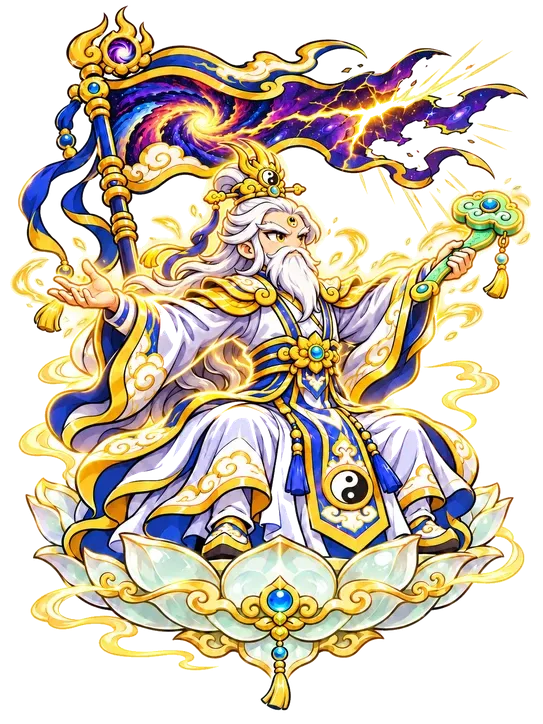
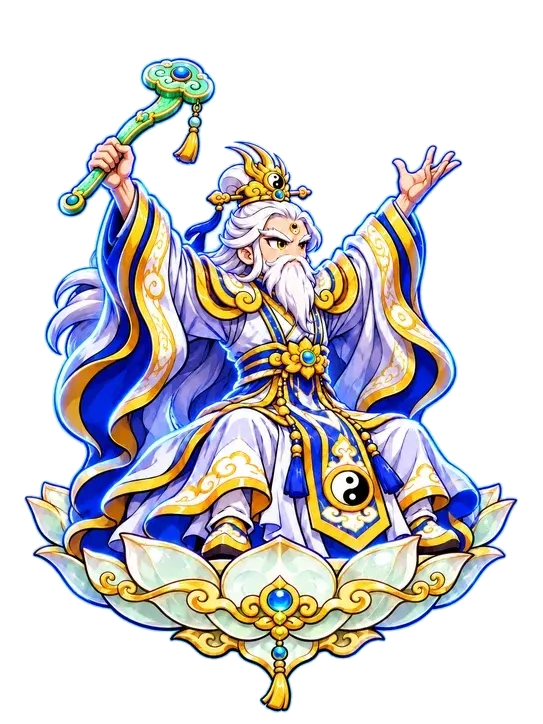
4 UR moi (Nu Oa, Tiep Dan, Chuan De, Nhu Lai) + Nguyen Thuy tach lop; Hong Quan: Hong Mong Khai Thien; va toc rau Hong Quan, Thai Thuong; Thai Cuc Do bot choi; bo vong aura UR

diff --git a/js/main.js b/js/main.js
@@ -123,7 +123,7 @@ function drawEnemyPose(u, alpha) {
   ctx.filter = 'none'; ctx.restore(); return true;
 }
 const POSE_NAMES = ['windup', 'strike', 'skill', 'ult', 'idle1', 'idle2', 'hit'];
-const POSE_IDS = ['hongquan','nguyenthuy','ngochoang','dilac','quangthanh','kimlinh','chanvu','vuongmau','phohien','daibang','ngocdinh','hoangbao','bachnhan','hattu','moctra','nganggiac','kimmaohong','loicong','ngoctho','linhcam','maonhat','giaochu','khongtuyen','nhiendang','thaisu','hoangmi','vanthu','quynhtieu','hoangthienhoa','viho','thachco','bodetosu','tranguyentu','hoangphiho','dienmau','thanhnguutinh','longvuong','dangthienngoc','kimtra','hachhung','thodia','ngokhong','batgioi','nata','ngumavuong','honghainhi','quanam','datky','duongtang','duongtien','khuongtanha','vantieu','trieucongminh','thailaoquan','satang','thietphien','litinh','hangnga','bachcot','loichantu','thohanhton','thaiatchannhan','thancongbao','longnu','kimgiac','tieubachlong','thaibachkimtinh','culinhthan','hoangphongquai'];   // tướng đã có tư thế chính (thêm id khi đã vẽ xong game/art/poses/<id>/)
+const POSE_IDS = ['nuoa','tiepdan','chuande','nhulai','hongquan','nguyenthuy','ngochoang','dilac','quangthanh','kimlinh','chanvu','vuongmau','phohien','daibang','ngocdinh','hoangbao','bachnhan','hattu','moctra','nganggiac','kimmaohong','loicong','ngoctho','linhcam','maonhat','giaochu','khongtuyen','nhiendang','thaisu','hoangmi','vanthu','quynhtieu','hoangthienhoa','viho','thachco','bodetosu','tranguyentu','hoangphiho','dienmau','thanhnguutinh','longvuong','dangthienngoc','kimtra','hachhung','thodia','ngokhong','batgioi','nata','ngumavuong','honghainhi','quanam','datky','duongtang','duongtien','khuongtanha','vantieu','trieucongminh','thailaoquan','satang','thietphien','litinh','hangnga','bachcot','loichantu','thohanhton','thaiatchannhan','thancongbao','longnu','kimgiac','tieubachlong','thaibachkimtinh','culinhthan','hoangphongquai'];   // tướng đã có tư thế chính (thêm id khi đã vẽ xong game/art/poses/<id>/)
 const _heroLoaded = {};   // id → Promise: rig xương + tư thế của tướng, chỉ nạp khi tướng ra trận (tiết kiệm ~30 MB lúc khởi động)
 function ensureHeroAssets(ids) {
   try { applySkins(); } catch (e) {}
@@ -1900,7 +1900,7 @@ function poseFor(u) {
 //   Hiển thị = 108px × look.size × SIZE_K × (UR 1,08). SIZE_K bù phần thú cưỡi/toà để NGƯỜI luôn cùng cỡ.
 //   SIZE_K[id] = tổng chiều cao khối / chiều cao người (chỉ tướng cưỡi thú, ngồi toà, áo dài lơ lửng, dáng khom). Kiểm bằng tools/size_sheet.py:
 //   đỉnh đầu NGƯỜI phải chạm vạch đỏ. Vẽ lại tướng có thú cưỡi -> chạy lại size_sheet.py và chỉnh số của tướng đó.
-const SIZE_K = { giaochu: 1.04, thailaoquan: 1.06, phohien: 1.32, vanthu: 1.28, hoangphiho: 1.16, nguyenthuy: 1.2, hongquan: 1.12, kimgiac: 1.1, thaisu: 1.12 };
+const SIZE_K = { nuoa: 1.05, tiepdan: 1.08, chuande: 1.05, nhulai: 1.02, giaochu: 1.04, thailaoquan: 1.06, phohien: 1.32, vanthu: 1.28, hoangphiho: 1.16, nguyenthuy: 0.98, hongquan: 1.0, kimgiac: 1.1, thaisu: 1.12 };
 const heroK = id => (SIZE_K[id] || 1) * (isUR(id) ? 1.08 : 1);
 const HFIX = new Proxy({}, { get: (_, id) => typeof id === 'string' && HEROES[id] ? heroK(id) : undefined });   // tương thích chỗ cũ dùng HFIX[id]
 const _bright = new WeakMap();
@@ -1937,17 +1937,38 @@ const UR_LAYERS = {
   thailaoquan: { halo: { img: 'tl_taiji', qi: 'tl_qi', x: -0.1, y: 0.86, size: 0.8, spd: 0.12 },
     float: { img: 'tl_lo', smoke: 'tl_smoke', x: 0.42, y: 0.74, size: 0.17 },
     orbit: { img: 'tl_kimcang', n: 1, rx: 0.5, ry: 0.1, y: 0.42, size: 0.13, spd: 0.7 } },
+  // lớp chung: items [{ side: -1 sau | 1 trước, img (ultc) | sheet (sigfx, chạy vòng), x, y (theo chiều cao thân, y đo từ chân lên), w (rộng), spd (xoay vòng/giây), sway (lắc), bob, add, a, ay, spdSheet }]
+  nuoa: { ground: { sheet: 'nuoa_cloud', w: 1.2, y: 0.0, spd: 0.15, a: 0.9 },
+    items: [{ side: -1, img: 'nuoa_rainbow', y: 0.66, w: 0.95, spd: 0.04, a: 0.9, glow: '#ffc0f0' }],
+    orbit: { imgs: ['nuoa_st0', 'nuoa_st1', 'nuoa_st2', 'nuoa_st3', 'nuoa_st4'], n: 5, rx: 0.55, ry: 0.11, y: 0.5, size: 0.1, spd: 0.5, glow: 'rgba(255,220,255,0.9)' },
+    float: { img: 'nuoa_ball', x: 0.42, y: 0.62, size: 0.16 } },
+  tiepdan: { ground: { sheet: 'td_ground', w: 1.25, y: 0.0, spd: 0.25, a: 0.9 },
+    items: [{ side: -1, img: 'td_rays', y: 0.72, w: 0.9, spd: 0.02, a: 0.55 }, { side: 1, sheet: 'td_petals', y: 0.55, w: 0.95, spdSheet: 0.35, add: 1, a: 0.8 }] },
+  chuande: { items: [{ side: -1, img: 'cd_tail', y: 0.62, w: 1.15, sway: 0.04, a: 1, glow: '#9fffc0' }, { side: -1, img: 'cd_arms', y: 0.78, w: 0.9, sway: 0.06, a: 0.95 },
+      { side: 1, sheet: 'cd_feathers', y: 0.5, w: 0.9, spdSheet: 0.4, add: 1, a: 0.75 }],
+    float: { img: 'cd_tree', x: -0.42, y: 0.62, size: 0.2 } },
+  nhulai: { ground: { sheet: 'nl_lotus', w: 1.0, y: 0.0, spd: 0.15, a: 0.9 },
+    items: [{ side: -1, img: 'nl_halo', y: 0.68, w: 1.0, spd: 0.015, a: 0.95, glow: '#ffd76a' }, { side: -1, img: 'nl_ring', y: 0.68, w: 1.12, spd: -0.06, add: 1, a: 0.9 },
+      { side: 1, sheet: 'nl_glyphs', x: 0.2, y: 0.6, w: 0.5, spdSheet: 0.5, add: 1, a: 0.8 }] },
+  nguyenthuy: { items: [{ side: -1, img: 'nt_rays', y: 0.7, w: 0.95, spd: 0.02, a: 0.5 }, { side: -1, sheet: 'nt_banner', x: -0.42, y: 0.55, w: 0.75, spdSheet: 0.6, a: 1 }] },
   hongquan: { ground: { sheet: 'hq_galaxy', w: 1.3, y: 0.0, spd: 0.18, a: 0.95 }, orbit: { img: 'hq_tablet', n: 3, rx: 0.62, ry: 0.12, y: 0.62, size: 0.34, spd: 0.45 } },
 };
 function urLayers(g, L, x, y, hb, alpha, side, pose, u) {   // side -1: lớp sau thân; 1: lớp trước thân; pose: dáng đang vẽ
   const T = performance.now() / 1000, c0 = ctx; ctx = g;   // sfxDraw/sigImg vẽ lên ctx toàn cục -> mượn tạm
   try {
+    for (const it of L.items || []) { if ((it.side || -1) !== side) continue;   // lớp chung (hào quang, cờ, cánh tay, lông vũ...)
+      const ult = pose === 'ult' || pose === 'skill', cx = x + hb * (it.x || 0), cy = y - hb * it.y + (it.bob ? Math.sin(T * 1.6) * hb * it.bob : 0), S = hb * it.w * (ult && it.img ? 1.05 : 1);
+      if (it.glow) { g.save(); g.globalCompositeOperation = 'lighter'; g.globalAlpha = alpha * (ult ? 0.6 : 0.35); const gr = g.createRadialGradient(cx, cy, S * 0.1, cx, cy, S * 0.6); gr.addColorStop(0, it.glow); gr.addColorStop(1, 'rgba(0,0,0,0)'); g.fillStyle = gr; g.fillRect(cx - S, cy - S, S * 2, S * 2); g.restore(); }
+      if (it.sheet) { sfxImg(it.sheet); sfxDraw(it.sheet, T * (it.spdSheet || 0.3), cx, cy, S, { loop: 1, add: it.add, a: alpha * (it.a || 1), ay: it.ay }); continue; }
+      const im = ucImg(it.img); if (!im) continue; const w = S, h = S * im.height / im.width;
+      g.save(); g.translate(cx, cy); g.rotate((it.spd ? T * it.spd * TAU * (ult ? 2 : 1) : 0) + (it.sway ? Math.sin(T * 1.2) * it.sway : 0));
+      if (it.add) g.globalCompositeOperation = 'lighter'; g.globalAlpha = alpha * (it.a || 1); g.drawImage(im, -w / 2, -h / 2, w, h); g.restore(); }
     const HL = L.halo;   // vầng hào quang xoay sau lưng (Thái Thượng: Thái Cực Đồ) + khí âm dương bay ra vào
     if (HL && side < 0) { const im = ucImg(HL.img); if (im) { const S = hb * HL.size, cx = x + hb * HL.x, cy = y - hb * HL.y, ult = pose === 'ult' || pose === 'skill';
-      g.save(); g.globalCompositeOperation = 'lighter'; g.globalAlpha = alpha * (ult ? 0.7 : 0.4);
-      const gr = g.createRadialGradient(cx, cy, S * 0.2, cx, cy, S * 0.75); gr.addColorStop(0, 'rgba(160,255,200,0.6)'); gr.addColorStop(1, 'rgba(0,0,0,0)'); g.fillStyle = gr; g.fillRect(cx - S, cy - S, S * 2, S * 2); g.restore();
-      g.save(); g.translate(cx, cy); g.rotate(T * HL.spd * (ult ? 3 : 1)); g.globalAlpha = alpha * 0.92; g.drawImage(im, -S / 2, -S / 2, S, S); g.restore();
-      if (HL.qi) { sfxImg(HL.qi); sfxDraw(HL.qi, T * 0.35, cx, cy, S * 1.35, { loop: 1, add: 1, a: alpha * (ult ? 1 : 0.75), rot: -T * 0.2 }); } } }
+      g.save(); g.globalCompositeOperation = 'lighter'; g.globalAlpha = alpha * (ult ? 0.35 : 0.15);
+      const gr = g.createRadialGradient(cx, cy, S * 0.2, cx, cy, S * 0.75); gr.addColorStop(0, 'rgba(160,255,200,0.5)'); gr.addColorStop(1, 'rgba(0,0,0,0)'); g.fillStyle = gr; g.fillRect(cx - S, cy - S, S * 2, S * 2); g.restore();
+      g.save(); g.translate(cx, cy); g.rotate(T * HL.spd * (ult ? 3 : 1)); g.globalAlpha = alpha; g.drawImage(im, -S / 2, -S / 2, S, S); g.restore();
+      if (HL.qi) { sfxImg(HL.qi); sfxDraw(HL.qi, T * 0.35, cx, cy, S * 1.35, { loop: 1, add: 1, a: alpha * (ult ? 0.7 : 0.45), rot: -T * 0.2 }); } } }
     const FL = L.float;   // pháp bảo lơ lửng cạnh vai (Thái Thượng: lò Bát Quái phun khói)
     if (FL && side > 0) { const im = ucImg(FL.img); if (im) { const S = hb * FL.size, fx = x + hb * FL.x, fy = y - hb * FL.y + Math.sin(T * 1.6) * hb * 0.015;
       if (FL.smoke) { sfxImg(FL.smoke); sfxDraw(FL.smoke, T * 0.8, fx, fy - S * 0.35, S * 1.3, { loop: 1, ay: 0.95, add: 1, a: alpha * 0.85 }); }
@@ -1964,11 +1985,12 @@ function urLayers(g, L, x, y, hb, alpha, side, pose, u) {   // side -1: lớp sa
         g.globalCompositeOperation = 'source-over'; g.globalAlpha = alpha; g.drawImage(im, -w / 2, -L2 * 0.92, w, L2); g.restore(); }
     }
     if (side < 0 && L.ground) { sfxImg(L.ground.sheet); sfxDraw(L.ground.sheet, T * L.ground.spd, x, y + hb * L.ground.y, hb * L.ground.w, { loop: 1, a: alpha * L.ground.a }); }
-    const O = L.orbit; if (O) { const im = ucImg(O.img); if (im) for (let i = 0; i < O.n; i++) {
+    const busy = u && u.side === 'h' && B && B.fx.some(f => f.k === 'sigx' && f.who === u.id && f.ult);   // tuyệt kỹ đang dùng chính pháp bảo bay -> ẩn vòng bay
+    const O = !busy && L.orbit; if (O) for (let i = 0; i < O.n; i++) { const im = ucImg(O.imgs ? O.imgs[i % O.imgs.length] : O.img); if (!im) continue; {
       const a = T * O.spd + i * TAU / O.n, front = Math.sin(a) > 0; if ((side > 0) !== front) continue;
       const ox = Math.cos(a) * hb * O.rx, oy = y - hb * O.y + Math.sin(a) * hb * O.ry + Math.sin(T * 2 + i) * hb * 0.02, d = 0.82 + 0.18 * Math.sin(a), S = hb * O.size * d;
       g.save(); g.globalAlpha = alpha * (front ? 1 : 0.55);
-      g.globalCompositeOperation = 'lighter'; g.globalAlpha *= 0.35; const gr = g.createRadialGradient(x + ox, oy, 0, x + ox, oy, S * 0.9); gr.addColorStop(0, 'rgba(255,220,140,0.9)'); gr.addColorStop(1, 'rgba(0,0,0,0)'); g.fillStyle = gr; g.fillRect(x + ox - S, oy - S, S * 2, S * 2);
+      g.globalCompositeOperation = 'lighter'; g.globalAlpha *= 0.35; const gr = g.createRadialGradient(x + ox, oy, 0, x + ox, oy, S * 0.9); gr.addColorStop(0, O.glow || 'rgba(255,220,140,0.9)'); gr.addColorStop(1, 'rgba(0,0,0,0)'); g.fillStyle = gr; g.fillRect(x + ox - S, oy - S, S * 2, S * 2);
       g.globalCompositeOperation = 'source-over'; g.globalAlpha = alpha * (front ? 1 : 0.55); g.drawImage(im, x + ox - S * 0.5 * im.width / im.height, oy - S / 2, S * im.width / im.height, S); g.restore(); } }
   } finally { ctx = c0; }
 }
@@ -3016,6 +3038,7 @@ const SSR_FX = {
 const SFI = {}; function sfImg(n) { let i = SFI[n]; if (!i) { i = SFI[n] = new Image(); i.src = 'art/ssrfx/' + n + '.webp'; } return i.complete && i.naturalWidth ? i : null; }
 function ssrFxOn(u) { return u && u.side === 'h' && SSR_FX[u.id] && !u.clone && S.gfx !== 'low' && (HEROES[u.id].rar === 'SSR' || ((S.owned[u.id] || {}).star || 0) >= 5); }   // SR có bộ VFX (Ngưu Ma) giữ khi thức tỉnh
 function drawSsrAura(u, h) {   // hào quang sau lưng: đứng yên đúng tâm thân, đập nhịp, sáng hơn khi đầy nộ
+  if (UR_LAYERS[u.id]) return;   // UR tách lớp đã có hào quang riêng sau đầu -> bỏ vòng lớn quanh người cho đỡ rối
   const im = sfImg('aura_' + u.id); if (!im) return; const full = u.mp >= 100 ? 1 : 0;
   const T = window.AURA_C0 && (AURA_C0[poseDir(u.id)] || AURA_C0[u.id]), tc = T && (T[u.pzN] || T.idle1); if (!tc) return;
   u.auC = u.auC || tc.slice(); u.auC[0] += (tc[0] - u.auC[0]) * 0.25; u.auC[1] += (tc[1] - u.auC[1]) * 0.25;   // trượt mượt theo dáng
@@ -4077,7 +4100,7 @@ const FAC_BG = { xien: 'khuongtanha', triet: 'giaochu', thien: 'duongtien', phat
 const HD_FIX = { giaochu: 0.7, thailaoquan: 0.74 };   // màn chi tiết: chừa chỗ cho quạt kiếm sau lưng
 function hdScale(id) {   // màn chi tiết: phóng theo chiều cao THÂN (tướng có kiếm bay / thú cưỡi không bị nhỏ), cùng số đo với trong trận
   const D = window.HPOSE && HPOSE[poseDir(id)]; if (!D) return 1;
-  return Math.max(0.75, Math.min(1.4, 1300 / D.H * (HFIX[id] || 1) * (HD_FIX[id] || 1))).toFixed(3);
+  return Math.max(0.75, Math.min(1.4, 1300 / D.H * (HFIX[id] || 1) * (HD_FIX[id] || (UR_LAYERS[id] ? 0.74 : 1)))).toFixed(3);
 }
 function hdSkill(id, k) { const h = HEROES[id], a = ATK_STYLE[id] || {};
   return k === 'atk' ? { n: a.name || 'Đánh thường', d: a.desc || '' } : k === 'passive' ? { n: h.passive.name, d: h.passive.desc } : k === 'cap' ? capSkill(id) : { n: h[k].name, d: h[k].desc }; }
@@ -4996,7 +5019,7 @@ loadArt().then(() => {
 // =====================================================================
 const SIG = {};
 // [cột, hàng, rộng ô, cao ô] — tools/make_sigfx.py in ra
-const SFX = /*SFX*/{"nmv_spikes":[3,2,256,256],"nmv_crack":[3,2,256,256],"nmv_roar":[3,2,256,256],"nmv_pillar":[4,2,192,256],"nt_ring":[3,2,256,256],"nt_spear":[3,2,256,256],"nt_wheel":[3,2,256,256],"nt_burst":[3,2,256,256],"nt_trail":[4,2,192,256],"hq_galaxy":[4,2,192,256],"tl_qi":[4,2,192,256],"tl_smoke":[3,2,256,256],"tt_slash":[3,2,256,256],"tt_cuts":[3,2,256,256],"tt_land":[3,2,256,256],"tt_array":[4,2,192,256],"tt_final":[4,2,192,256]}/*SFX*/;
+const SFX = /*SFX*/{"nmv_spikes":[3,2,256,256],"nmv_crack":[3,2,256,256],"nmv_roar":[3,2,256,256],"nmv_pillar":[4,2,192,256],"nt_ring":[3,2,256,256],"nt_spear":[3,2,256,256],"nt_wheel":[3,2,256,256],"nt_burst":[3,2,256,256],"nt_trail":[4,2,192,256],"hq_galaxy":[4,2,192,256],"tl_qi":[4,2,192,256],"tl_smoke":[3,2,256,256],"hq_slash":[3,2,256,256],"hq_rift_open":[4,2,192,256],"hq_rift_loop":[4,2,192,256],"hq_pull":[3,2,256,256],"hq_burst":[4,2,192,256],"nuoa_cloud":[4,2,192,256],"nuoa_sky":[4,2,192,256],"td_petals":[3,2,256,256],"td_ground":[4,2,192,256],"td_bloom":[4,2,192,256],"cd_feathers":[3,2,256,256],"cd_sweep":[4,2,192,256],"nl_glyphs":[3,2,256,256],"nl_lotus":[4,2,192,256],"nl_palm":[4,2,192,256],"nt_banner":[4,2,192,256],"tt_slash":[3,2,256,256],"tt_cuts":[3,2,256,256],"tt_land":[3,2,256,256],"tt_array":[4,2,192,256],"tt_final":[4,2,192,256]}/*SFX*/;
 const SGI = {};
 function sfxImg(n) { let i = SGI[n]; if (!i) { i = SGI[n] = new Image(); i.src = 'art/sigfx/' + n + '.webp'; } return i.complete && i.naturalWidth ? i : null; }
 function sigPreload(id) { const S = SIG[id]; if (S) { (S.sheets || []).forEach(sfxImg); (S.need || []).forEach(ucImg); } }   // gọi khi tướng ra trận
@@ -5018,7 +5041,7 @@ function sfxDraw(n, p, x, y, S, o) {
 function sfxOnce(n, x, y, S, dur, o) { sigFx({ dur, draw(f, p) { sfxDraw(n, p, x, y, S, o); } }); }
 function sigFx(o) { const f = Object.assign({ k: 'sigx', t: 0, done: {} }, o); B.fx.push(f); return f; }
 function sigOnce(f, k, fn) { if (!f.done[k]) { f.done[k] = 1; fn(); } }
-function sigPt(u, r, tgt) { return bestCluster(r) || (tgt ? { x: tgt.x, y: tgt.y } : { x: u.x + 220 * (u.f || 1), y: u.y }); }
+function sigPt(u, r, tgt) { const P = bestCluster(r) || (tgt ? { x: tgt.x, y: tgt.y } : { x: u.x + 220 * (u.f || 1), y: u.y }); return { x: Math.min(P.x, VIEW_R() - 150), y: P.y }; }   // không sát mép phải (hiệu ứng lớn bị cắt)
 function sigImg(n, x, y, S, rot, a, filter) {
   const im = ucImg(n); if (!im) return; const w = S, h = S * im.height / im.width;
   ctx.save(); ctx.translate(x, y); if (rot) ctx.rotate(rot); ctx.globalAlpha = a == null ? 1 : a; if (filter) ctx.filter = filter;
@@ -5187,6 +5210,116 @@ SIG.giaochu = {
     snd('gong');
   },
 };
+
+// ---------------------------------------------------------------- HỒNG QUÂN LÃO TỔ (UR+)
+// Tuyệt kỹ HỒNG MÔNG KHAI THIÊN: (Pháp Tướng mở màn) -> rạch tím xé chéo sân -> khe hư không mở, tinh hà xoáy hút quái (30% sát thương rải đều)
+//   + 3 Ngọc Điệp lao vào khe -> khe khép, tinh hà nổ chiếu tia (70% + choáng). Có vực Thái Cực Đồ: khe mở lâu hơn 0,5 giây, hút mạnh hơn.
+// Tiểu chiêu HƯ KHÔNG CHỈ: vết rạch nhỏ tại chỗ quái đông, khe tí hon hé ra rồi bắn chùm sao.
+SIG.hongquan = {
+  sheets: ['hq_slash', 'hq_rift_open', 'hq_rift_loop', 'hq_pull', 'hq_burst'], need: ['hq_tablet'],
+  small(u, sk, tgt) {
+    const f0 = sk.fx[0], P = sigPt(u, 110, tgt);
+    sigFx({ dur: 1.0, upd(f) { if (f.t >= 0.45) sigOnce(f, 'hit', () => { runFx(u, { ...f0, P }, tgt, 'skill'); B.shake = Math.max(B.shake, 0.35); sfx('boom'); }); },
+      draw(f) { const t = f.t;
+        sfxDraw('hq_slash', t / 0.3, P.x, P.y - 50, 190, { add: 1 });
+        if (t > 0.18 && t < 0.55) sfxDraw('hq_rift_open', (t - 0.18) / 0.3, P.x, P.y - 50, 170, { a: fadeOut(t, 0.42, 0.13) });
+        if (t > 0.4) sfxDraw('hq_burst', (t - 0.4) / 0.6, P.x, P.y - 50, 230, { add: 1 });
+      } });
+    snd('whoosh');
+  },
+  ult(u, sk, tgt) {
+    const f0 = sk.fx.find(f => f.t === 'aoe'), P0 = sigPt(u, 170, tgt), h = spriteH(u);
+    const P = { x: Math.min(P0.x, VIEW_R() - 200), y: clamp(P0.y, LANE_Y0 + 40, LANE_Y1 - 20) }, cy = P.y - 60;
+    const dom = B.dom && B.dom.id === 'tamthanh', T0 = 1.1, OPEN = T0 + 0.25, CLOSE = OPEN + 1.25 + (dom ? 0.5 : 0), END = CLOSE + 1.0;
+    const ticks = 6, tickM = f0.mult * 0.3 / ticks, finM = f0.mult * 0.7;
+    for (const f of sk.fx) if (f.t !== 'aoe') runFx(u, f, tgt, 'ult');   // bùa +30% công cả đội
+    sigFx({ ult: 1, who: u.id, dur: END, upd(f, dt) {
+      const t = f.t;
+      if (t >= T0) sigOnce(f, 'slash', () => { B.hitstop = Math.max(B.hitstop || 0, 0.08); B.shake = Math.max(B.shake, 0.4); snd('whoosh', 1, 0.6); });
+      if (t >= OPEN && t < CLOSE) {   // hút về khe
+        const k = (dom ? 2.6 : 1.8) * dt;
+        for (const e of B.enemies) if (!e.dead) { const m = e.boss ? 0.15 : 1; e.x += (P.x - e.x) * k * m; e.y += (P.y - e.y) * k * m * 0.6; }
+        for (let i = 0; i < ticks; i++) if (t >= OPEN + (CLOSE - OPEN) * (i + 0.5) / ticks) sigOnce(f, 'tk' + i, () => { for (const e of B.enemies) if (!e.dead && Math.hypot(e.x - P.x, (e.y - P.y) * 1.6) < 260) dealDmg(u, e, tickM, 'ult'); });
+      }
+      if (t >= CLOSE + 0.12) sigOnce(f, 'fin', () => { for (const e of B.enemies) if (!e.dead && Math.hypot(e.x - P.x, (e.y - P.y) * 1.4) < 300) { dealDmg(u, e, finM, 'ult'); if (!e.dead) e.stun = Math.max(e.stun || 0, f0.stun || 2.5); }
+        B.shake = 1.1; B.flash = 0.4; sfx('boom'); snd('thunder', 0.9, 0.6); B.decals.push({ x: P.x, y: P.y + 4, r: 180, t: 0, dur: 5 }); particles(P.x, cy, '#d8a0ff', 36, 420, 6); });
+    }, draw(f) {
+      const t = f.t, W2 = 470;
+      sigDim(0.55 * Math.min(1, Math.max(0, (t - T0 + 0.3) / 0.3)) * fadeOut(t, CLOSE + 0.6, 0.5), '#06020f');   // trời tối lại
+      if (t >= T0 && t < T0 + 0.5) sfxDraw('hq_slash', (t - T0) / 0.35, P.x, cy, W2 * 1.1, { add: 1 });
+      if (t >= OPEN && t < OPEN + 0.5) sfxDraw('hq_rift_open', (t - OPEN) / 0.5, P.x, cy, W2);
+      if (t >= OPEN + 0.45 && t < CLOSE + 0.1) {
+        sigGlow(P.x, cy, 260, 'rgba(150,80,255,0.9)', 0.45);
+        sfxDraw('hq_rift_loop', t * 1.2, P.x, cy, W2, { loop: 1, a: fadeOut(t, CLOSE - 0.05, 0.15) });
+        sfxDraw('hq_pull', t * 1.6, P.x, cy, W2 * 1.2, { loop: 1, add: 1, a: 0.85 });
+      }
+      for (let i = 0; i < 3; i++) {   // 3 Ngọc Điệp từ người Hồng Quân lao vào khe
+        const s0 = OPEN + 0.3 + i * 0.15, q = (t - s0) / 0.55; if (q < 0 || q > 1) continue;
+        const e = q * q * (3 - 2 * q), sx = u.x + (i - 1) * 40, sy = u.y - h * 0.8;
+        const x = sx + (P.x - sx) * e, y = sy + (cy - sy) * e - Math.sin(q * Math.PI) * 90;
+        sigGlow(x, y, 50, 'rgba(255,220,140,0.9)', 0.7 * (1 - q * 0.5)); sigImg('hq_tablet', x, y, 26 * (1 - 0.5 * e), (1 - e) * 0.5 + q * 3, 1 - q * 0.3);
+      }
+      if (t >= CLOSE) sfxDraw('hq_burst', (t - CLOSE) / 1.0, P.x, cy, 560, { add: 1 });
+    } });
+    snd('gong');
+  },
+};
+
+// ---------------------------------------------------------------- UR ĐỢT 2 (tuyệt kỹ chạy sau Pháp Tướng mở màn ~1,1 giây; sát thương đúng mô tả qua runFx)
+function sigUltAt(u, sk, tgt, P, hitT) {   // chạy toàn bộ fx của tuyệt kỹ tại điểm P đúng lúc hitT
+  return f => { if (f.t >= hitT) sigOnce(f, 'hit', () => { for (const x of sk.fx) runFx(u, x.at === 'cluster' ? { ...x, P } : x, tgt, 'ult'); B.shake = Math.max(B.shake, 0.9); B.flash = 0.3; sfx('boom'); }); };
+}
+// Nữ Oa — Luyện Thạch Bổ Thiên: trời nứt trên đầu quái -> 5 đá ngũ sắc bay vào -> cầu vồng vá trời, ánh sáng giáng xuống
+SIG.nuoa = { sheets: ['nuoa_sky', 'nuoa_cloud'], need: ['nuoa_st0', 'nuoa_st1', 'nuoa_st2', 'nuoa_st3', 'nuoa_st4'],
+  ult(u, sk, tgt) {
+    const P = sigPt(u, 170, tgt), sy = P.y - 230, h = spriteH(u), T0 = 1.0;
+    sigFx({ ult: 1, who: u.id, dur: T0 + 2.0, upd: sigUltAt(u, sk, tgt, P, T0 + 1.25), draw(f) {
+      const t = f.t - T0; if (t < 0) return;
+      sigDim(0.45 * Math.min(1, t / 0.3) * fadeOut(t, 1.5, 0.5));
+      sfxDraw('nuoa_sky', t / 1.6, P.x, sy, 520, { add: 1 });
+      for (let i = 0; i < 5; i++) { const q = (t - 0.35 - i * 0.08) / 0.5; if (q < 0 || q > 1) continue;
+        const sx = u.x + (i - 2) * 30, s0y = u.y - h * 0.6, x = sx + (P.x - sx) * q, y = s0y + (sy - s0y) * q - Math.sin(q * Math.PI) * 120;
+        sigGlow(x, y, 40, 'rgba(255,230,255,0.9)', 0.8); sigImg('nuoa_st' + i, x, y, 30, q * 6, 1); }
+      if (t > 1.2) { const q = Math.min(1, (t - 1.2) / 0.3); sigGlow(P.x, P.y - 60, 260, 'rgba(255,200,240,0.9)', 0.8 * (1 - Math.max(0, (t - 1.5) / 0.5))); }
+    } });
+    snd('magic');
+  } };
+// Tiếp Dẫn — Thập Nhị Phẩm Kim Liên: sen vàng 12 cánh nở giữa sân, mỗi vòng cánh bừng thêm tia sáng -> hồi máu + khiên + kim quang
+SIG.tiepdan = { sheets: ['td_bloom', 'td_petals', 'td_ground'],
+  ult(u, sk, tgt) {
+    const P = sigPt(u, 170, tgt), cx = (u.x + P.x) / 2, cy = Math.min(u.y, P.y) - 150, T0 = 1.0;
+    sigFx({ ult: 1, who: u.id, dur: T0 + 2.2, upd: sigUltAt(u, sk, tgt, P, T0 + 1.3), draw(f) {
+      const t = f.t - T0; if (t < 0) return;
+      sigDim(0.4 * Math.min(1, t / 0.3) * fadeOut(t, 1.7, 0.5), '#0c0800');
+      sfxDraw('td_bloom', t / 1.4, cx, cy, 440, { add: 1, a: fadeOut(t, 1.6, 0.6) });
+      if (t > 1.2) sfxDraw('td_petals', t * 0.6, cx, cy + 120, 620, { loop: 1, add: 1, a: fadeOut(t, 1.6, 0.6) });
+    } });
+    snd('heal');
+  } };
+// Chuẩn Đề — Ngũ Sắc Thần Quang: đuôi khổng tước bừng sáng, năm dải sáng quét ngang sân
+SIG.chuande = { sheets: ['cd_sweep', 'cd_feathers'],
+  ult(u, sk, tgt) {
+    const P = sigPt(u, 170, tgt), T0 = 1.0, L = Math.max(500, P.x - u.x + 260);
+    sigFx({ ult: 1, who: u.id, dur: T0 + 1.8, upd: sigUltAt(u, sk, tgt, P, T0 + 0.6), draw(f) {
+      const t = f.t - T0; if (t < 0) return;
+      sigDim(0.4 * Math.min(1, t / 0.25) * fadeOut(t, 1.2, 0.5));
+      sfxDraw('cd_sweep', t / 1.1, u.x + L / 2, P.y - 50, L, { add: 1, rot: Math.atan2(P.y - u.y, L) * 0.5 });
+      if (t > 0.5) sfxDraw('cd_feathers', t * 0.8, P.x, P.y - 70, 360, { loop: 1, add: 1, a: fadeOut(t, 1.2, 0.5) });
+    } });
+    snd('whoosh');
+  } };
+// Như Lai — Ngũ Hành Sơn: bàn tay Phật khổng lồ giáng xuống hoá núi đè quái
+SIG.nhulai = { sheets: ['nl_palm', 'nl_glyphs'],
+  ult(u, sk, tgt) {
+    const P = sigPt(u, 170, tgt), T0 = 1.0;
+    sigFx({ ult: 1, who: u.id, dur: T0 + 2.0, upd: sigUltAt(u, sk, tgt, P, T0 + 0.95), draw(f) {
+      const t = f.t - T0; if (t < 0) return;
+      sigDim(0.45 * Math.min(1, t / 0.3) * fadeOut(t, 1.4, 0.5), '#0c0800');
+      sfxDraw('nl_palm', t / 1.6, P.x, P.y + 30, 420, { ay: 0.92 });
+      if (t > 0.9) sfxDraw('nl_glyphs', t * 0.7, P.x, P.y - 40, 360, { loop: 1, add: 1, a: fadeOut(t, 1.4, 0.5) });
+    } });
+    snd('gong');
+  } };
 
 // </SIG>
 // Cho phép chạy thử tự động (không ảnh hưởng game)

diff --git a/js/data.js b/js/data.js
@@ -1122,7 +1122,7 @@ const DOMAIN = {
 (function urPlus() {
   TIER_ORDER.unshift('UR+'); TIER_RANK['UR+'] = 7; TIER_CLASS['UR+'] = 'SSR'; TIER_BASE['UR+'] = 1.32; GACHA_TIER_W['UR+'] = 0;
   STAR_MUL_R['UR+'] = [1, 1.28, 1.6, 2.05, 2.8, 3.45]; STAR_COST['UR+'] = [20, 40, 60, 90, 130]; DUP_SHARDS['UR+'] = 20;
-  HEROES.hongquan = {"name": "Hồng Quân Lão Tổ", "title": "Đạo Tổ · Sư phụ Tam Thanh", "src": "Phong Thần Diễn Nghĩa", "role": "tran", "el": "tho", "fac": "dao", "rar": "SSR", "tier": "UR+", "hp": 1550, "atk": 112, "def": 70, "aspd": 0.9, "range": 195, "move": 150, "ranged": true, "proj": "light", "look": {"style": "buns", "skin": "#ffe0c8", "hair": "#eeeeee", "outfit": "#5a2a8a", "outfit2": "#2a1040", "belt": "#ffd34d", "weapon": "staff", "wcolor": "#ffd34d"}, "tang": [{"d": "Đòn thường 15% làm choáng", "m": {"stunHit": 0.15}}, {"d": "Tiểu chiêu khống chế lâu hơn 0,5 giây", "m": {"stunPlus": 0.5}}, {"d": "Đòn thường nảy thêm 1 quái", "m": {"bounce": 1}}, {"d": "Tuyệt kỹ +60%", "m": {"ult": 0.6}}], "passive": {"name": "Đạo Tổ", "desc": "Cả đội +12% công.", "atkPct": 0.12}, "small": {"name": "Hồng Mông Tử Khí", "desc": "Tử khí Hồng Mông quấn chỗ quái đông nhất 180% công, choáng 1,5 giây.", "fx": [{"t": "aoe", "at": "cluster", "r": 105, "mult": 1.8, "color": "#d8a0ff", "stun": 1.5}]}, "ult": {"name": "Tạo Hoá Ngọc Điệp", "desc": "Ngọc Điệp Tạo Hoá giáng xuống viết lại trời đất 560% công cả vùng, choáng 2,5 giây; cả đội +30% công 8 giây.", "fx": [{"t": "aoe", "at": "cluster", "r": 185, "mult": 5.6, "color": "#d8a0ff", "stun": 2.5}, {"t": "buff", "k": "atk", "v": 0.3, "dur": 8}]}};
+  HEROES.hongquan = {"name": "Hồng Quân Lão Tổ", "title": "Đạo Tổ · Sư phụ Tam Thanh", "src": "Phong Thần Diễn Nghĩa", "role": "tran", "el": "tho", "fac": "dao", "rar": "SSR", "tier": "UR+", "hp": 1550, "atk": 112, "def": 70, "aspd": 0.9, "range": 195, "move": 150, "ranged": true, "proj": "light", "look": {"style": "buns", "skin": "#ffe0c8", "hair": "#eeeeee", "outfit": "#5a2a8a", "outfit2": "#2a1040", "belt": "#ffd34d", "weapon": "staff", "wcolor": "#ffd34d"}, "tang": [{"d": "Đòn thường 15% làm choáng", "m": {"stunHit": 0.15}}, {"d": "Tiểu chiêu khống chế lâu hơn 0,5 giây", "m": {"stunPlus": 0.5}}, {"d": "Đòn thường nảy thêm 1 quái", "m": {"bounce": 1}}, {"d": "Tuyệt kỹ +60%", "m": {"ult": 0.6}}], "passive": {"name": "Đạo Tổ", "desc": "Cả đội +12% công.", "atkPct": 0.12}, "small": {"name": "Hư Không Chỉ", "desc": "Rạch một khe hư không nhỏ tại chỗ quái đông nhất, chùm sao bắn ra 180% công, choáng 1,5 giây.", "fx": [{"t": "aoe", "at": "cluster", "r": 105, "mult": 1.8, "color": "#d8a0ff", "stun": 1.5}]}, "ult": {"name": "Hồng Mông Khai Thiên", "desc": "Rạch toạc hư không, tinh hà xoáy hút quái vào khe nứt rồi bùng nổ: tổng 560% công cả vùng, choáng 2,5 giây; cả đội +30% công 8 giây. Có Thái Cực Đồ: khe mở lâu hơn, hút mạnh hơn.", "fx": [{"t": "aoe", "at": "cluster", "r": 185, "mult": 5.6, "color": "#d8a0ff", "stun": 2.5}, {"t": "buff", "k": "atk", "v": 0.3, "dur": 8}]}};
   ATK_STYLE.hongquan = {"pat": "bounce", "proj": "light", "name": "Tử Khí", "desc": "Luồng tử khí nảy lan 5 quái.", "bounces": 5};
   TIER_TABLE['UR+'] = ['hongquan']; SSR_POOL.push('hongquan');
   CAP_SPECIAL.hongquan = { n: 'Đạo Tổ Giảng Đạo', d: 'Cả đội +25% công, +25% sát thương chiêu', m: { atkPct: 0.25, skillPct: 0.25 } };
@@ -1132,6 +1132,45 @@ const DOMAIN = {
 })();
 
 // Tướng chưa vẽ xong (thiếu dáng) -> ẩn khỏi chiêu mộ, danh sách, Thánh Điện cho tới khi có hình. Cập nhật bằng tools/patch_hud4.py
+// ===== UR ĐỢT 2: Nữ Oa, Tiếp Dẫn, Chuẩn Đề, Như Lai (concept B, tách lớp — tools/batch_ur_wave.py) =====
+(function urWave2() {
+  const LOOK = (hair, o1, o2) => ({ style: 'buns', skin: '#ffe0c8', hair, outfit: o1, outfit2: o2, belt: '#ffd34d', weapon: 'staff', wcolor: '#ffd34d' });
+  const TANG = [{ d: 'Đòn thường 15% làm choáng', m: { stunHit: 0.15 } }, { d: 'Tiểu chiêu khống chế lâu hơn 0,5 giây', m: { stunPlus: 0.5 } }, { d: 'Đòn thường nảy thêm 1 quái', m: { bounce: 1 } }, { d: 'Tuyệt kỹ +60%', m: { ult: 0.6 } }];
+  const base = { src: 'Phong Thần Diễn Nghĩa', rar: 'SSR', tier: 'UR', hp: 1550, atk: 112, def: 70, aspd: 0.9, range: 195, move: 150, ranged: true, proj: 'light', tang: TANG };
+  Object.assign(HEROES, {
+    nuoa: { ...base, name: 'Nữ Oa Nương Nương', title: 'Thánh nhân Yêu tộc · Luyện Thạch Bổ Thiên', role: 'tran', el: 'tho', fac: 'yeu', look: LOOK('#2a1a10', '#f0a8d0', '#8ad0ff'),
+      passive: { name: 'Thánh Thể Bổ Thiên', desc: 'Nhận ít hơn 15% sát thương.', dr: 0.15 },
+      small: { name: 'Ngũ Sắc Thạch', desc: 'Đá ngũ sắc giáng chỗ quái đông nhất 170% công, choáng 1,4 giây.', fx: [{ t: 'aoe', at: 'cluster', r: 105, mult: 1.7, color: '#ffb0e0', stun: 1.4 }] },
+      ult: { name: 'Luyện Thạch Bổ Thiên', desc: 'Vá trời bằng đá ngũ sắc: 480% công cả vùng, choáng 2 giây; cả đội nhận khiên 15% máu.', fx: [{ t: 'aoe', at: 'cluster', r: 185, mult: 4.8, color: '#ffb0e0', stun: 2.0 }, { t: 'shield', who: 'team', pct: 0.15, dur: 6 }] } },
+    tiepdan: { ...base, name: 'Tiếp Dẫn Đạo Nhân', title: 'Giáo chủ Tây Phương', role: 'dan', el: 'kim', fac: 'phat', hp: 1700, atk: 100, look: LOOK('#eeeeee', '#e8b830', '#2a3a7a'),
+      passive: { name: 'Tiếp Dẫn Vãng Sinh', desc: 'Hồi máu nhận thêm 20%.', healPct: 0.2 },
+      small: { name: 'Kim Liên Hộ Thể', desc: 'Hồi máu cả đội 180% công.', fx: [{ t: 'heal', mult: 1.8 }] },
+      ult: { name: 'Thập Nhị Phẩm Kim Liên', desc: 'Mười hai cánh Kim Liên nở: hồi máu cả đội 480% công, khiên 12% máu, kim quang 380% công cả vùng.', fx: [{ t: 'heal', mult: 4.8 }, { t: 'shield', who: 'team', pct: 0.12, dur: 6 }, { t: 'aoe', at: 'cluster', r: 185, mult: 3.8, color: '#ffd76a' }] } },
+    chuande: { ...base, name: 'Chuẩn Đề Đạo Nhân', title: 'Thánh nhân Tây Phương', role: 'phap', el: 'moc', fac: 'phat', atk: 120, look: LOOK('#eeeeee', '#f0f0ff', '#2a5aaa'),
+      passive: { name: 'Thất Bảo Diệu Thụ', desc: '+15% sát thương chiêu thức.', skillPct: 0.15 },
+      small: { name: 'Gia Trì Thần Xử', desc: 'Thần Xử giáng chỗ quái đông nhất 190% công, choáng 1,2 giây.', fx: [{ t: 'aoe', at: 'cluster', r: 105, mult: 1.9, color: '#9fffc0', stun: 1.2 }] },
+      ult: { name: 'Ngũ Sắc Thần Quang', desc: 'Đuôi khổng tước quét ánh sáng năm màu 540% công cả vùng, choáng 2 giây.', fx: [{ t: 'aoe', at: 'cluster', r: 195, mult: 5.4, color: '#9fffc0', stun: 2.0 }] } },
+    nhulai: { ...base, name: 'Như Lai Phật Tổ', title: 'Thích Ca Mâu Ni', src: 'Tây Du Ký', role: 'tran', el: 'kim', fac: 'phat', hp: 1650, look: LOOK('#2a3a8a', '#c0302a', '#ffd34d'),
+      passive: { name: 'Kim Thân Bất Hoại', desc: 'Nhận ít hơn 15% sát thương, +10% bạo kích.', dr: 0.15, crit: 0.1 },
+      small: { name: 'Vạn Tự Phật Ấn', desc: 'Phật ấn đè chỗ quái đông nhất 170% công, choáng 1,5 giây.', fx: [{ t: 'aoe', at: 'cluster', r: 110, mult: 1.7, color: '#ffd76a', stun: 1.5 }] },
+      ult: { name: 'Ngũ Hành Sơn', desc: 'Bàn tay Phật hoá Ngũ Hành Sơn giáng xuống 560% công cả vùng, choáng 2,5 giây.', fx: [{ t: 'aoe', at: 'cluster', r: 195, mult: 5.6, color: '#ffd76a', stun: 2.5 }] } },
+  });
+  Object.assign(ATK_STYLE, {
+    nuoa: { pat: 'bounce', proj: 'light', name: 'Ngũ Sắc Quang', desc: 'Tia năm màu nảy lan 4 quái.', bounces: 4 },
+    tiepdan: { pat: 'bounce', proj: 'light', name: 'Kim Quang', desc: 'Tia kim quang nảy lan 4 quái.', bounces: 4 },
+    chuande: { pat: 'bounce', proj: 'light', name: 'Lông Khổng Tước', desc: 'Lông vũ năm màu nảy lan 4 quái.', bounces: 4 },
+    nhulai: { pat: 'bounce', proj: 'light', name: 'Phật Quang', desc: 'Phật quang nảy lan 5 quái.', bounces: 5 },
+  });
+  for (const id of ['nuoa', 'tiepdan', 'chuande', 'nhulai']) { TIER_TABLE.UR.push(id); SSR_POOL.push(id); }
+  Object.assign(CAP_SPECIAL, {
+    nuoa: { n: 'Mẫu Nghi Thiên Hạ', d: 'Cả đội +20% máu, +10% công', m: { hpPct: 0.2, atkPct: 0.1 } },
+    tiepdan: { n: 'Tây Phương Tiếp Dẫn', d: 'Cả đội +20% máu, nhận ít hơn 10% sát thương', m: { hpPct: 0.2, kc: 0.1 } },
+    chuande: { n: 'Ngũ Sắc Thần Quang', d: 'Cả đội +20% sát thương chiêu, +10% công', m: { skillPct: 0.2, atkPct: 0.1 } },
+    nhulai: { n: 'Phật Tổ Giảng Kinh', d: 'Cả đội +20% công, +15% thủ', m: { atkPct: 0.2, defPct: 0.15 } },
+  });
+  BONDS.push({ id: 'taiphuong', name: 'Tây Phương Nhị Thánh', members: ['tiepdan', 'chuande'], g: { hpPct: 0.15, skillPct: 0.15 }, desc: 'Tiếp Dẫn và Chuẩn Đề: +15% máu, +15% sát thương chiêu.' });
+  BONDS.push({ id: 'linhson', name: 'Linh Sơn Pháp Hội', members: ['nhulai', 'tiepdan', 'chuande'], g: { atkPct: 0.2, defPct: 0.15 }, desc: 'Ba Thánh nhân Phật môn: +20% công, +15% thủ.' });
+})();
 // ===== VỰC: bỏ vực riêng từng UR. Chỉ còn vực NHÓM khi đủ 3 UR cùng hệ trên sân =====
 //   đủ Tam Thanh -> Thái Cực Đồ; đủ 3 UR Phật giáo (Tiếp Dẫn, Chuẩn Đề, Như Lai) -> Phạn Tự Vực
 const PHAT_UR = ['tiepdan', 'chuande', 'nhulai'];   // Tiếp Dẫn, Chuẩn Đề, Như Lai (theo Bảng Thần Tiên; chưa thêm vào game)

diff --git a/art/poses/hmeta.js b/art/poses/hmeta.js
@@ -1,1 +1,1 @@
-window.HPOSE = {"loichantu": {"H": 1201.8, "gnd": [660, 1395]}, "thohanhton": {"H": 1196.0, "gnd": [512, 1387]}, "thaiatchannhan": {"H": 1185.3, "gnd": [573, 1335]}, "thancongbao": {"H": 1182.4, "gnd": [657, 1321]}, "longnu": {"H": 1303.7, "gnd": [567, 1398]}, "kimgiac": {"H": 1298.8, "gnd": [578, 1384]}, "tieubachlong": {"H": 1265.8, "gnd": [517, 1412]}, "thaibachkimtinh": {"H": 1135.9, "gnd": [604, 1321]}, "culinhthan": {"H": 1254.2, "gnd": [575, 1394]}, "hoangphongquai": {"H": 1087.4, "gnd": [479, 1364]}, "khuongtanha": {"H": 1377.4, "gnd": [570, 1429]}, "trieucongminh": {"H": 1368.7, "gnd": [572, 1420]}, "bachcot": {"H": 1371.6, "gnd": [574, 1423]}, "bodetosu": {"H": 1372.5, "gnd": [563, 1426]}, "tranguyentu": {"H": 1327.9, "gnd": [551, 1403]}, "hoangphiho": {"H": 1167.9, "gnd": [519, 1358]}, "dienmau": {"H": 1308.5, "gnd": [543, 1398]}, "thanhnguutinh": {"H": 1287.2, "gnd": [502, 1387]}, "longvuong": {"H": 1262.0, "gnd": [591, 1418]}, "dangthienngoc": {"H": 1246.5, "gnd": [535, 1378]}, "kimtra": {"H": 1344.4, "gnd": [540, 1409]}, "hachhung": {"H": 1286.2, "gnd": [533, 1387]}, "thodia": {"H": 1212.5, "gnd": [479, 1341]}, "giaochu": {"H": 1034.0, "gnd": [506, 1437]}, "khongtuyen": {"H": 1276.5, "gnd": [568, 1423]}, "nhiendang": {"H": 1207.6, "gnd": [467, 1367]}, "thaisu": {"H": 1356.1, "gnd": [556, 1418]}, "hoangmi": {"H": 1227.0, "gnd": [528, 1367]}, "vanthu": {"H": 1276.5, "gnd": [538, 1395]}, "quynhtieu": {"H": 1240.6, "gnd": [517, 1367]}, "hoangthienhoa": {"H": 1375.5, "gnd": [555, 1432]}, "viho": {"H": 1386.1, "gnd": [563, 1435]}, "thachco": {"H": 1165.9, "gnd": [445, 1347]}, "giaochu_s2": {"H": 1287.2, "gnd": [570, 1423]}, "thailaoquan_s2": {"H": 1384.2, "gnd": [556, 1434]}, "thailaoquan": {"H": 1106.8, "gnd": [534, 1439]}, "hongquan": {"H": 1275.5, "gnd": [522, 1412]}, "nguyenthuy": {"H": 1303.7, "gnd": [551, 1423]}, "ngochoang": {"H": 1327.9, "gnd": [519, 1417]}, "dilac": {"H": 1022.4, "gnd": [516, 1278]}, "quangthanh": {"H": 1329.9, "gnd": [502, 1423]}, "kimlinh": {"H": 1304.6, "gnd": [510, 1412]}, "chanvu": {"H": 1107.7, "gnd": [557, 1338]}, "vuongmau": {"H": 1330.8, "gnd": [502, 1417]}, "phohien": {"H": 1318.2, "gnd": [465, 1418]}, "daibang": {"H": 1179.5, "gnd": [489, 1361]}, "ngocdinh": {"H": 1336.7, "gnd": [556, 1423]}, "hoangbao": {"H": 1303.7, "gnd": [471, 1429]}, "bachnhan": {"H": 1330.8, "gnd": [550, 1423]}, "hattu": {"H": 1327.0, "gnd": [494, 1401]}, "moctra": {"H": 1167.9, "gnd": [553, 1344]}, "nganggiac": {"H": 1266.8, "gnd": [563, 1384]}, "loicong": {"H": 1243.5, "gnd": [529, 1375]}, "ngoctho": {"H": 1308.5, "gnd": [528, 1415]}, "maonhat": {"H": 1223.2, "gnd": [535, 1360]}, "linhcam": {"H": 1172.7, "gnd": [642, 1361]}, "ngokhong": {"H": 1359.9, "gnd": [580, 1400]}, "batgioi": {"H": 1476.0, "gnd": [615, 1421]}, "nata": {"H": 1447.8, "gnd": [560, 1418]}, "ngumavuong": {"H": 1306.8, "gnd": [620, 1410]}, "honghainhi": {"H": 1260.4, "gnd": [560, 1405]}, "quanam": {"H": 1144.3, "gnd": [560, 1330]}, "datky": {"H": 1354.9, "gnd": [560, 1415]}, "duongtang": {"H": 1434.5, "gnd": [570, 1410]}, "duongtien": {"H": 1069.7, "gnd": [520, 1295]}, "vantieu": {"H": 1401.3, "gnd": [560, 1415]}, "satang": {"H": 1417.9, "gnd": [560, 1415]}, "thietphien": {"H": 1369.8, "gnd": [560, 1416]}, "litinh": {"H": 1353.2, "gnd": [560, 1416]}, "hangnga": {"H": 1343.3, "gnd": [560, 1415]}};
+window.HPOSE = {"loichantu": {"H": 1201.8, "gnd": [660, 1395]}, "thohanhton": {"H": 1196.0, "gnd": [512, 1387]}, "thaiatchannhan": {"H": 1185.3, "gnd": [573, 1335]}, "thancongbao": {"H": 1182.4, "gnd": [657, 1321]}, "longnu": {"H": 1303.7, "gnd": [567, 1398]}, "kimgiac": {"H": 1298.8, "gnd": [578, 1384]}, "tieubachlong": {"H": 1265.8, "gnd": [517, 1412]}, "thaibachkimtinh": {"H": 1135.9, "gnd": [604, 1321]}, "culinhthan": {"H": 1254.2, "gnd": [575, 1394]}, "hoangphongquai": {"H": 1087.4, "gnd": [479, 1364]}, "khuongtanha": {"H": 1377.4, "gnd": [570, 1429]}, "trieucongminh": {"H": 1368.7, "gnd": [572, 1420]}, "bachcot": {"H": 1371.6, "gnd": [574, 1423]}, "bodetosu": {"H": 1372.5, "gnd": [563, 1426]}, "tranguyentu": {"H": 1327.9, "gnd": [551, 1403]}, "hoangphiho": {"H": 1167.9, "gnd": [519, 1358]}, "dienmau": {"H": 1308.5, "gnd": [543, 1398]}, "thanhnguutinh": {"H": 1287.2, "gnd": [502, 1387]}, "longvuong": {"H": 1262.0, "gnd": [591, 1418]}, "dangthienngoc": {"H": 1246.5, "gnd": [535, 1378]}, "kimtra": {"H": 1344.4, "gnd": [540, 1409]}, "hachhung": {"H": 1286.2, "gnd": [533, 1387]}, "thodia": {"H": 1212.5, "gnd": [479, 1341]}, "giaochu": {"H": 1034.0, "gnd": [506, 1437]}, "khongtuyen": {"H": 1276.5, "gnd": [568, 1423]}, "nhiendang": {"H": 1207.6, "gnd": [467, 1367]}, "thaisu": {"H": 1356.1, "gnd": [556, 1418]}, "hoangmi": {"H": 1227.0, "gnd": [528, 1367]}, "vanthu": {"H": 1276.5, "gnd": [538, 1395]}, "quynhtieu": {"H": 1240.6, "gnd": [517, 1367]}, "hoangthienhoa": {"H": 1375.5, "gnd": [555, 1432]}, "viho": {"H": 1386.1, "gnd": [563, 1435]}, "thachco": {"H": 1165.9, "gnd": [445, 1347]}, "giaochu_s2": {"H": 1287.2, "gnd": [570, 1423]}, "thailaoquan_s2": {"H": 1384.2, "gnd": [556, 1434]}, "thailaoquan": {"H": 1106.8, "gnd": [534, 1439]}, "hongquan": {"H": 1275.5, "gnd": [522, 1412]}, "nguyenthuy": {"H": 1010.7, "gnd": [551, 1423]}, "ngochoang": {"H": 1327.9, "gnd": [519, 1417]}, "dilac": {"H": 1022.4, "gnd": [516, 1278]}, "quangthanh": {"H": 1329.9, "gnd": [502, 1423]}, "kimlinh": {"H": 1304.6, "gnd": [510, 1412]}, "chanvu": {"H": 1107.7, "gnd": [557, 1338]}, "vuongmau": {"H": 1330.8, "gnd": [502, 1417]}, "phohien": {"H": 1318.2, "gnd": [465, 1418]}, "daibang": {"H": 1179.5, "gnd": [489, 1361]}, "ngocdinh": {"H": 1336.7, "gnd": [556, 1423]}, "hoangbao": {"H": 1303.7, "gnd": [471, 1429]}, "bachnhan": {"H": 1330.8, "gnd": [550, 1423]}, "hattu": {"H": 1327.0, "gnd": [494, 1401]}, "moctra": {"H": 1167.9, "gnd": [553, 1344]}, "nganggiac": {"H": 1266.8, "gnd": [563, 1384]}, "loicong": {"H": 1243.5, "gnd": [529, 1375]}, "ngoctho": {"H": 1308.5, "gnd": [528, 1415]}, "maonhat": {"H": 1223.2, "gnd": [535, 1360]}, "linhcam": {"H": 1172.7, "gnd": [642, 1361]}, "ngokhong": {"H": 1359.9, "gnd": [580, 1400]}, "batgioi": {"H": 1476.0, "gnd": [615, 1421]}, "nata": {"H": 1447.8, "gnd": [560, 1418]}, "ngumavuong": {"H": 1306.8, "gnd": [620, 1410]}, "honghainhi": {"H": 1260.4, "gnd": [560, 1405]}, "quanam": {"H": 1144.3, "gnd": [560, 1330]}, "datky": {"H": 1354.9, "gnd": [560, 1415]}, "duongtang": {"H": 1434.5, "gnd": [570, 1410]}, "duongtien": {"H": 1069.7, "gnd": [520, 1295]}, "vantieu": {"H": 1401.3, "gnd": [560, 1415]}, "satang": {"H": 1417.9, "gnd": [560, 1415]}, "thietphien": {"H": 1369.8, "gnd": [560, 1416]}, "litinh": {"H": 1353.2, "gnd": [560, 1416]}, "hangnga": {"H": 1343.3, "gnd": [560, 1415]}, "nuoa": {"H": 1243.5, "gnd": [532, 1361]}, "tiepdan": {"H": 1124.2, "gnd": [545, 1359]}, "chuande": {"H": 1261.0, "gnd": [458, 1425]}, "nhulai": {"H": 1248.4, "gnd": [543, 1441]}};

diff --git a/index.html b/index.html
@@ -14,26 +14,26 @@
 <link rel="preconnect" href="https://fonts.googleapis.com">
 <link rel="preconnect" href="https://fonts.gstatic.com" crossorigin>
 <link href="https://fonts.googleapis.com/css2?family=Baloo+2:wght@500;600;700;800&family=Dancing+Script:wght@700&display=swap" rel="stylesheet">
-<link rel="stylesheet" href="css/style.css?v=1795452449">
-<link rel="stylesheet" href="css/themes.css?v=1795452449">
+<link rel="stylesheet" href="css/style.css?v=1795457648">
+<link rel="stylesheet" href="css/themes.css?v=1795457648">
 </head>
 <body>
 <div id="app">
   <canvas id="game"></canvas>
   <div id="ui"></div>
 </div>
-<script src="js/data.js?v=1795452449"></script><script src="art/enemies/meta.js?v=1795452449"></script><script src="art/ssrfx/aura_c.js?v=1795452449"></script>
-  <script src="art/poses/hmeta.js?v=1795452449"></script>
-<script src="js/art.js?v=1795452449"></script>
-<script src="art/anim/manifest.js?v=1795452449"></script>
-<script src="js/rig.js?v=1795452449"></script>
-<script src="art/rig/all.js?v=1795452449"></script>
-<script src="js/layered.js?v=1795452449"></script>
-<script src="art/mesh/index.js?v=1795452449"></script>
-<script src="js/meshrig.js?v=1795452449"></script>
-<script src="art/skel/index.js?v=1795452449"></script>
-<script src="js/skel.js?v=1795452449"></script>
-<script src="js/vfx.js?v=1795452449"></script>
-<script src="js/main.js?v=1795452449"></script>
+<script src="js/data.js?v=1795457648"></script><script src="art/enemies/meta.js?v=1795457648"></script><script src="art/ssrfx/aura_c.js?v=1795457648"></script>
+  <script src="art/poses/hmeta.js?v=1795457648"></script>
+<script src="js/art.js?v=1795457648"></script>
+<script src="art/anim/manifest.js?v=1795457648"></script>
+<script src="js/rig.js?v=1795457648"></script>
+<script src="art/rig/all.js?v=1795457648"></script>
+<script src="js/layered.js?v=1795457648"></script>
+<script src="art/mesh/index.js?v=1795457648"></script>
+<script src="js/meshrig.js?v=1795457648"></script>
+<script src="art/skel/index.js?v=1795457648"></script>
+<script src="js/skel.js?v=1795457648"></script>
+<script src="js/vfx.js?v=1795457648"></script>
+<script src="js/main.js?v=1795457648"></script>
 </body>
 </html>
